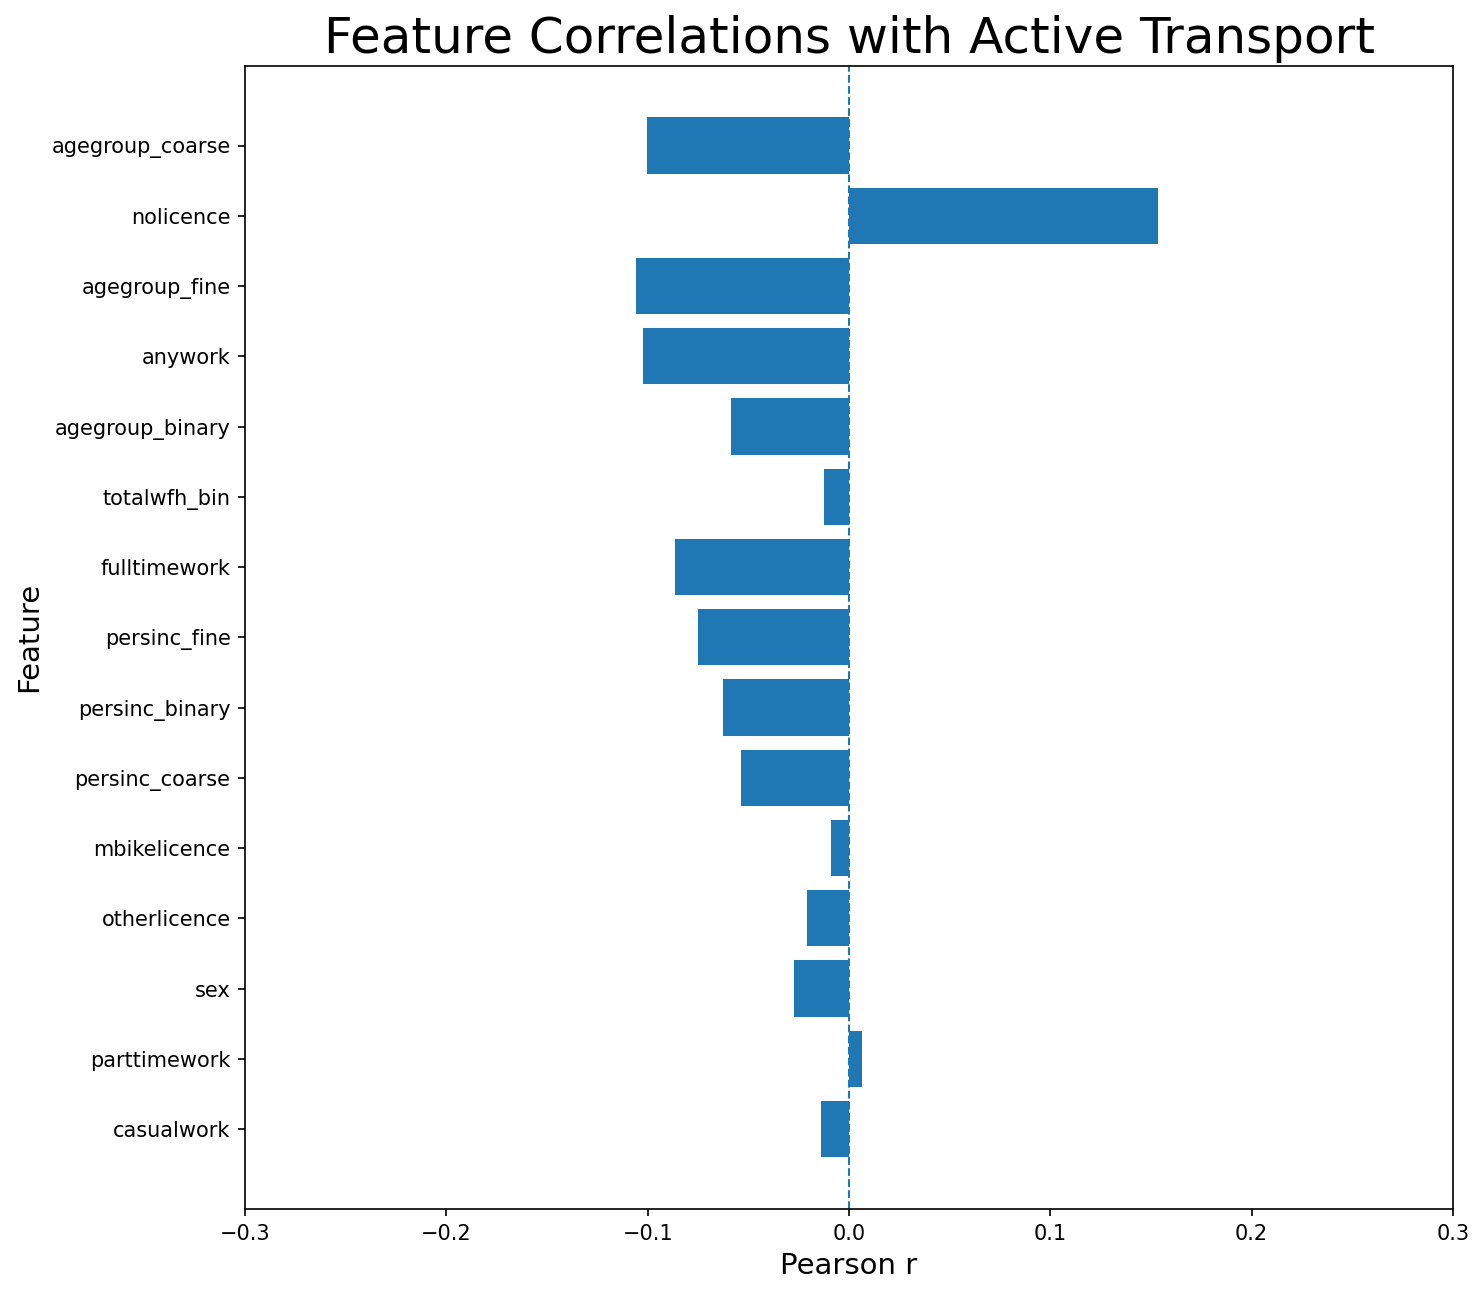
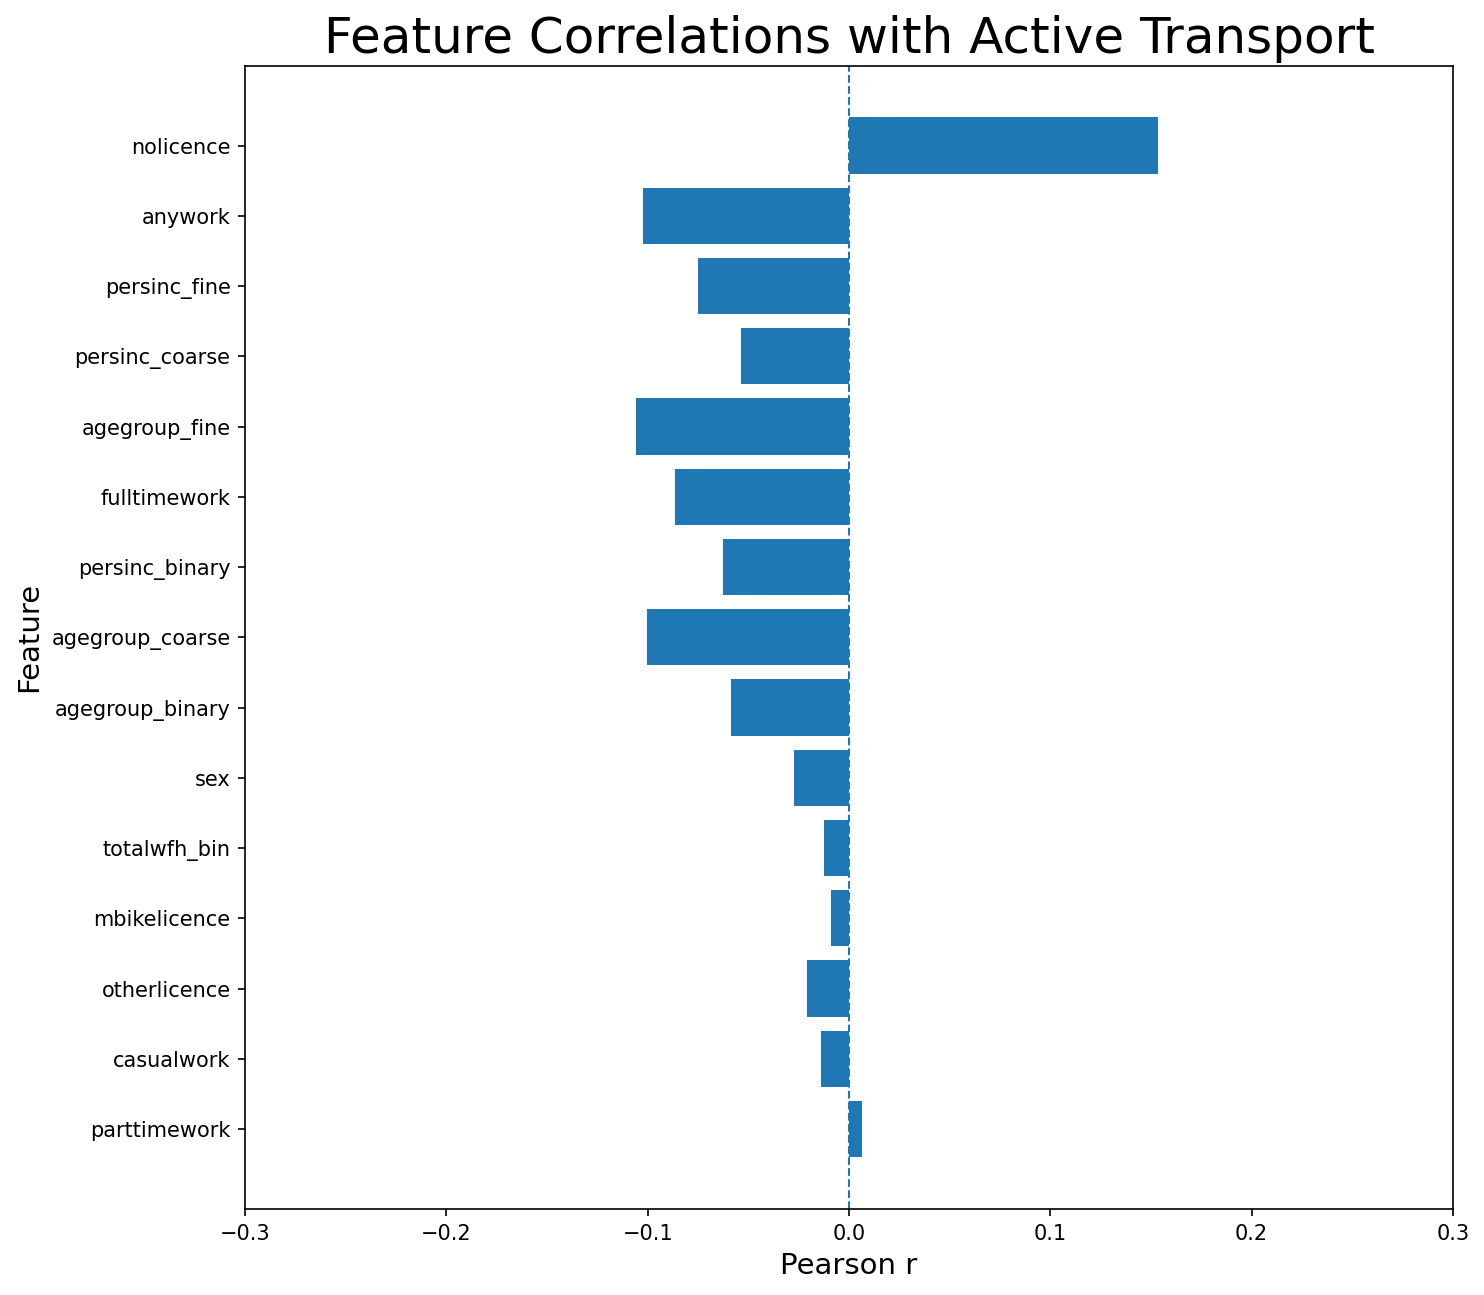
Global feature order on plots

diff --git a/correlation.py b/correlation.py
@@ -45,6 +45,31 @@ def get_X(df):
     X = df.drop(columns=[c for c in drop_cols if c in df.columns], errors="ignore")
     return X.select_dtypes(include=[np.number]).fillna(0)
 
+# Computes a global feature order for graphs
+def feature_order(df, X):
+    targets = {}
+
+    # Scalar targets
+    targets["wasted_time"] = pd.to_numeric(df["wasted_time"], errors="coerce")
+    targets["trip_efficiency"] = pd.to_numeric(df["overall_trip_efficiency"], errors="coerce")
+    targets["trip_length"] = pd.to_numeric(df["overall_trip_length"], errors="coerce")
+
+    # Mode-group targets
+    for name, modes in GROUPS.items():
+        y = df["most_used_mode"].isin(modes).astype(float)
+        if y.nunique() == 2:  # ensure both classes exist
+            targets[f"{name}_transport"] = y
+
+    # Compute correlations matrix
+    R_all = pd.DataFrame(index=X.columns, dtype=float)
+    for key, y in targets.items():
+        ok = np.isfinite(y)
+        R_all[key] = X.loc[ok].apply(lambda col: col.corr(y.loc[ok], method="pearson"))
+
+    R_all = R_all.fillna(0.0)
+    order = R_all.abs().max(axis=1).sort_values(ascending=False).index
+    return order, R_all
+
 # Gets pearson r values for all numeric features
 def corr_values(X, y):
     ok = np.isfinite(y)
@@ -85,7 +110,7 @@ def plot_bar(series, xlabel, title, out_path):
     write_report(series, out)
 
 # Perform Pearson correlation per travel mode
-def travel_mode_corr(df, X, out_dir=OUT_DIR):
+def travel_mode_corr(df, X, order, out_dir=OUT_DIR):
     os.makedirs(out_dir, exist_ok=True)
 
     groups = {
@@ -94,23 +119,16 @@ def travel_mode_corr(df, X, out_dir=OUT_DIR):
         if df["most_used_mode"].isin(modes).astype(int).nunique() == 2
     }
 
-    R = pd.DataFrame(index=X.columns, columns=groups.keys(), dtype=float)
-
     for name, modes in groups.items():
         y = df["most_used_mode"].isin(modes).astype(float)
         ok = np.isfinite(y)
-        R[name] = X.loc[ok].apply(lambda col: col.corr(y.loc[ok], method="pearson"))
-
-    R = R.fillna(0.0)
-    order = R.abs().max(axis=1).sort_values(ascending=False).index.tolist()
-
-    for group_name in groups.keys():
-        s = R.loc[order, group_name]
+        s = X.loc[ok].apply(lambda col: col.corr(y.loc[ok], method="pearson")).fillna(0.0)
+        s = s.reindex(order)  # enforce global order
         plot_bar(
             s,
             xlabel="Pearson r",
-            title=f"Feature Correlations with {group_name} Transport",
-            out_path=os.path.join(out_dir, f"{group_name.lower()}_transport.png"),
+            title=f"Feature Correlations with {name} Transport",
+            out_path=os.path.join(out_dir, f"{name.lower()}_transport.png"),
         )
 
 # Construct dataframe and produce plots
@@ -122,38 +140,35 @@ def corr_analysis():
         f.write("Correlation summary\n\n")
 
     df = quick_data()
-    df = df.merge(wasted_time(), on="persid", how="left").dropna(subset=["wasted_time"])
+    df = df.merge(wasted_time(), on="persid", how="left").dropna(subset=["wasted_time"])  # keep if you still want this plot
 
-    y = df["wasted_time"].astype(float)
     x = get_X(df)
-    ranks = corr_values(x, y)
+
+    # Compute global feature order for plots
+    order, R_all = feature_order(df, x)
 
     # Wasted time plot
     plot_bar(
-        ranks,
+        R_all.loc[order, "wasted_time"],
         xlabel="Pearson r",
         title="Feature Correlations with Wasted Time",
         out_path=os.path.join(OUT_DIR, "wasted_time.png"),
     )
 
     # Travel mode plots
-    travel_mode_corr(df, x, out_dir=OUT_DIR)
+    travel_mode_corr(df, x, order, out_dir=OUT_DIR)
 
     # Trip efficiency plot
-    y_eff = df["overall_trip_efficiency"].astype(float)
-    ranks_eff = corr_values(x, y_eff)
     plot_bar(
-        ranks_eff,
+        R_all.loc[order, "trip_efficiency"],
         xlabel="Pearson r",
         title="Feature Correlations with Trip Efficiency",
         out_path=os.path.join(OUT_DIR, "trip_efficiency.png"),
     )
 
     # Trip length plot
-    y_len = pd.to_numeric(df["overall_trip_length"], errors="coerce")
-    ranks_len = corr_values(x, y_len)
     plot_bar(
-        ranks_len,
+        R_all.loc[order, "trip_length"],
         xlabel="Pearson r",
         title="Feature Correlations with Trip Length",
         out_path=os.path.join(OUT_DIR, "trip_length.png"),
